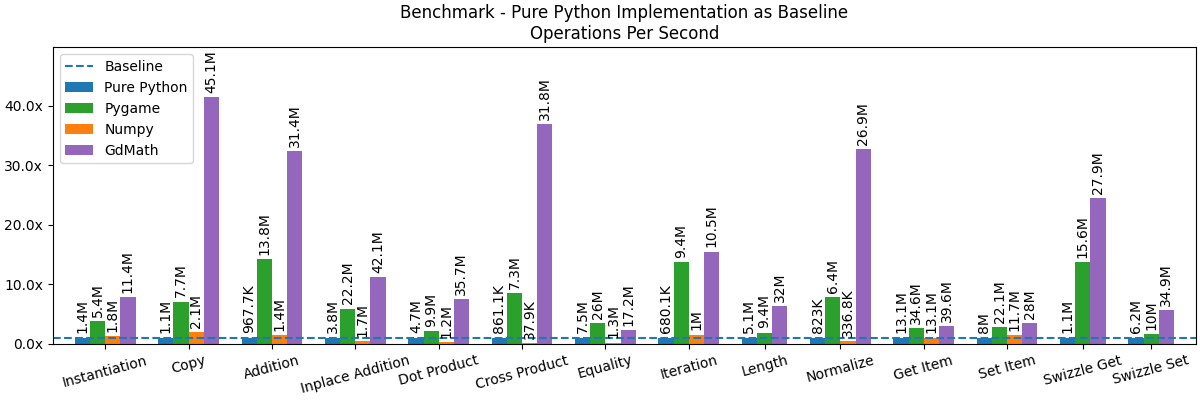
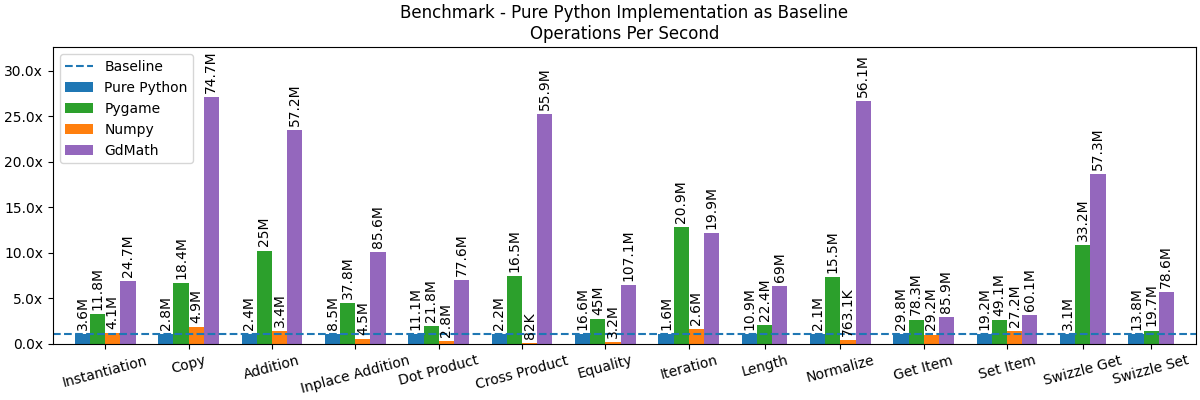
Update benchmarking

diff --git a/benchmark/benchmark.py b/benchmark/benchmark.py
@@ -21,7 +21,7 @@ class Subject(enum.Enum):
 
 
 BASELINE = Subject.PurePython
-RUNS_TO_GET_MIN_TIME = 10
+RUNS_TO_GET_MIN_TIME = 30
 STMT_BATCH_SIZE = 10000
 
 class TestCase:
@@ -279,7 +279,7 @@ def prepare():
     print("Prep: set powercfg")
     subprocess.run(ps + cfg_proc + "procthrottlemax 100", capture_output=True)
     subprocess.run(ps + cfg_proc + "procthrottlemin 100", capture_output=True)
-    subprocess.run(ps + cfg_proc + "idledisable 1", capture_output=True)
+    # subprocess.run(ps + cfg_proc + "idledisable 1", capture_output=True)
     subprocess.run(ps + "powercfg -setactive scheme_current", capture_output=True)
 
 def cleanup():
